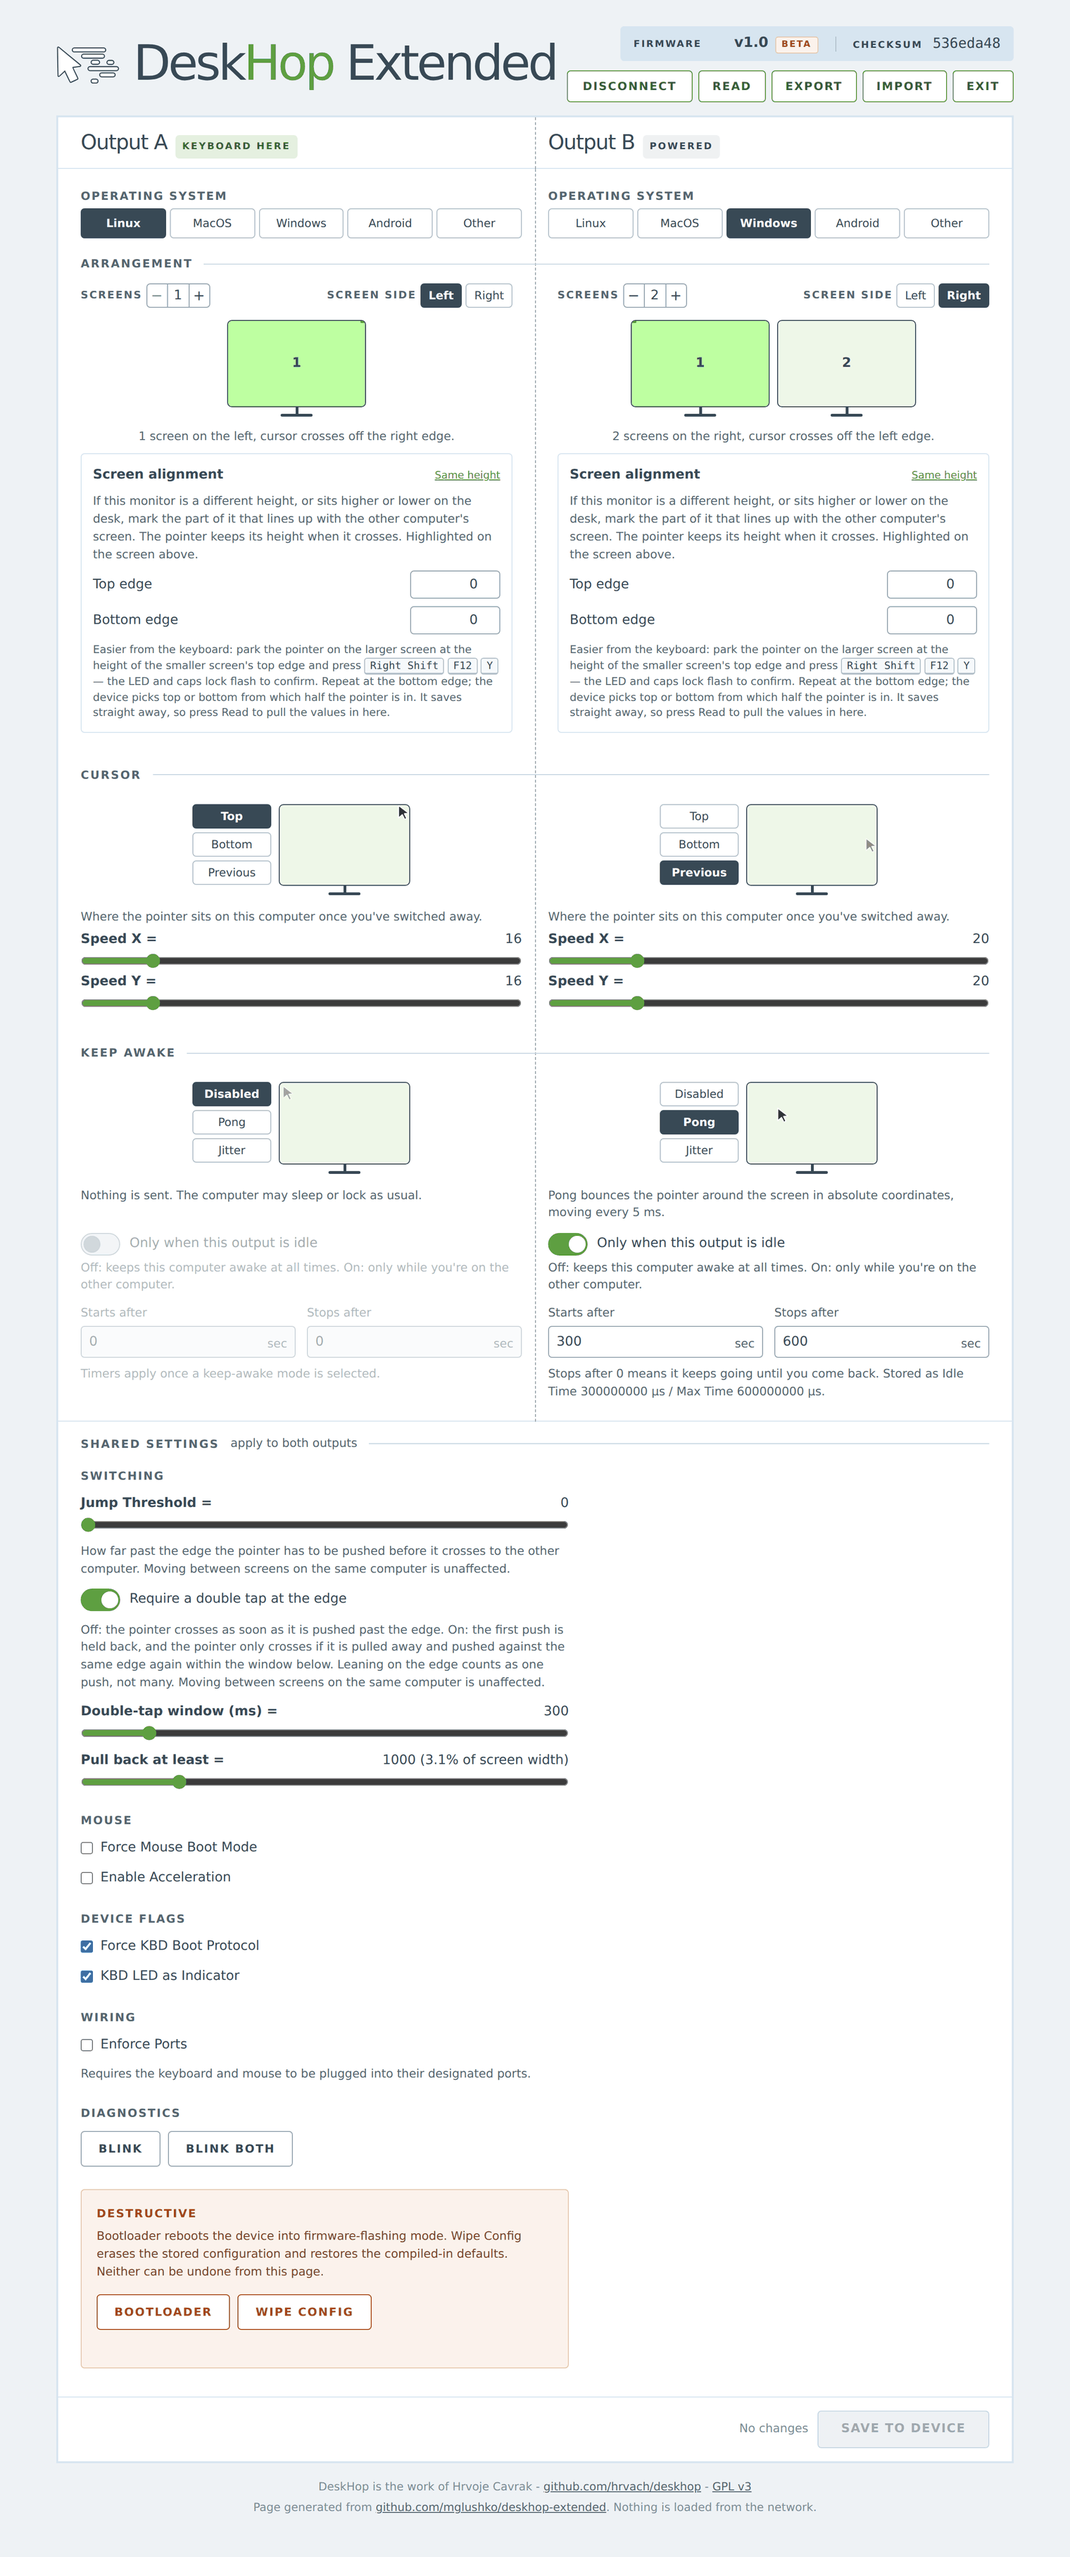
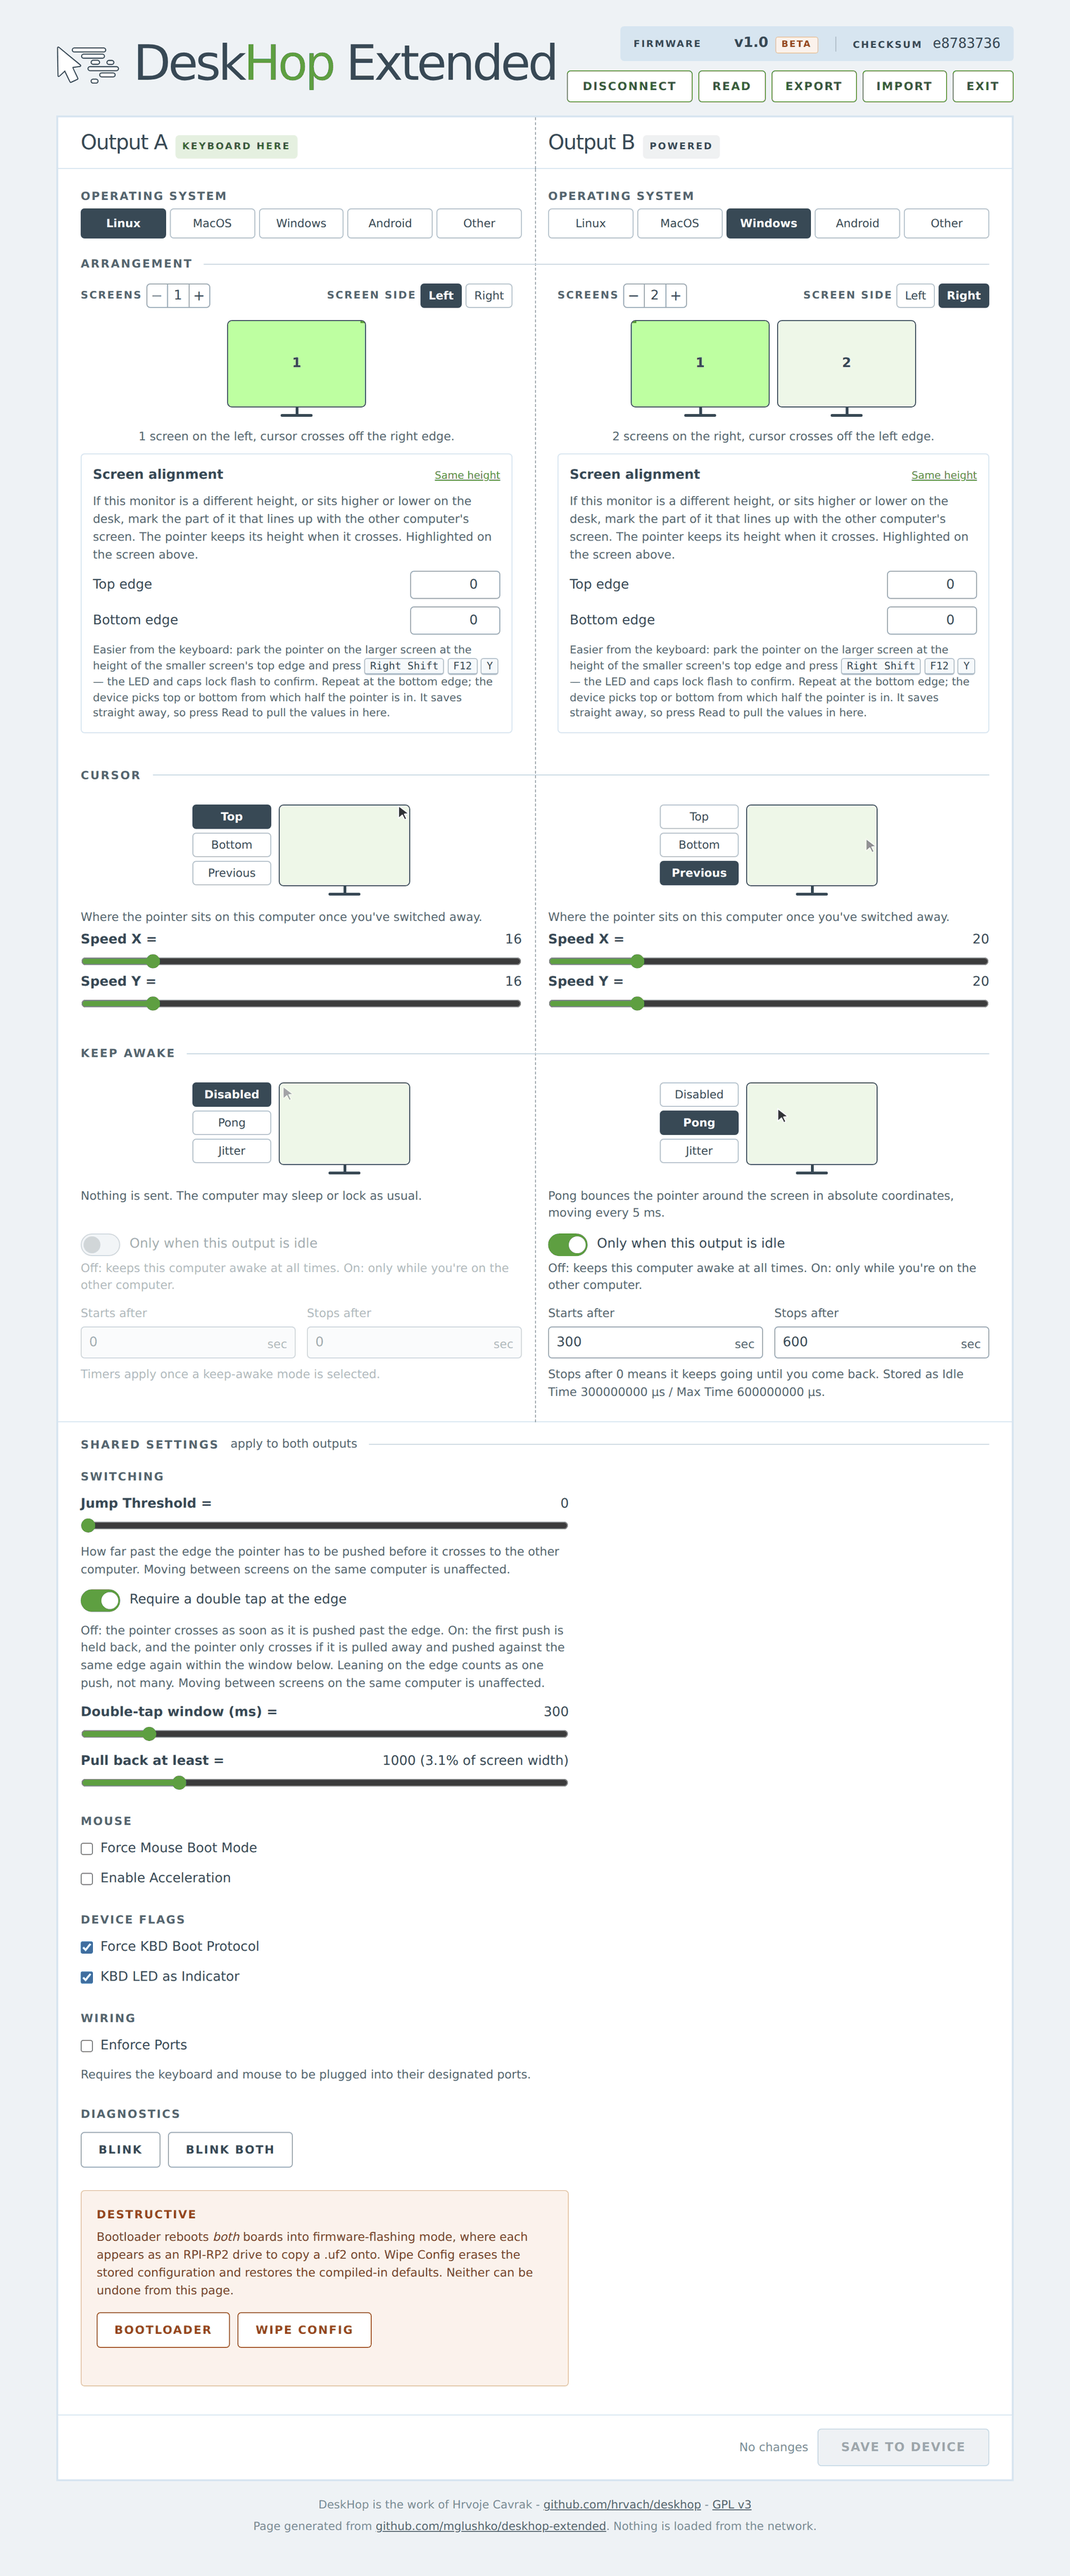
Make the Bootloader button work
It sent nothing at all. enterBootloaderHandler passed `true` where
sendReport expects a payload array, and makeReport spreads that payload
- `[...true]` throws TypeError before a single report goes out. The
firmware was never involved: handle_fw_upgrade_msg ignores the payload
entirely and goes straight to reset_usb_boot.

The handler is byte-identical in upstream, so Bootloader is dead there
too. Worth reporting.

It failed invisibly, which is why it shipped: menuClick calls an async
handler without catching, so the rejection became an unhandled promise
that surfaced nowhere unless devtools happened to be open, and the
button simply looked inert. menuClick now reports a throwing handler in
the settings panel, so the next one of these is visible rather than
silent.

The Destructive card said Bootloader reboots "the device"; sendBoth
proxies the message across the link first, so both boards reboot and
both come up as RPI-RP2. Says so now.

misc/test-config-backup.py drives the shipped page with a recording
stub in place of a paired device, and asserts two reports go out - the
proxied one wrapping the message, then the local one - plus that a
throwing handler gets reported. Pointed at the previously shipped
config.htm those same assertions fail with 'TypeError: payload is not
iterable' and zero reports sent, so they do detect the bug.

Untested on hardware - I cannot confirm both boards actually enumerate
as RPI-RP2.

diff --git a/webconfig/config.htm b/webconfig/config.htm
@@ -1,1 +1,1 @@
[2 lines of base64/hex data omitted]

diff --git a/webconfig/config-unpacked.htm b/webconfig/config-unpacked.htm
@@ -843,9 +843,10 @@ input[type=range][disabled] { accent-color: var(--grey); cursor: default; }
 
         <div class="box menu-buttons">
           <span class="lbl">Destructive</span>
-          <p>Bootloader reboots the device into firmware-flashing mode. Wipe Config erases the
-            stored configuration and restores the compiled-in defaults. Neither can be undone
-            from this page.</p>
+          <p>Bootloader reboots <em>both</em> boards into firmware-flashing mode, where each
+            appears as an RPI-RP2 drive to copy a .uf2 onto. Wipe Config erases the stored
+            configuration and restores the compiled-in defaults. Neither can be undone from
+            this page.</p>
           <div class="row-btn">
             <button class="btn btn-plain btn-danger online" data-handler="enterBootloaderHandler">Bootloader</button>
             <button class="btn btn-plain btn-danger online" data-handler="wipeConfigHandler">Wipe Config</button>
@@ -885,6 +886,9 @@ const packetType = {
   syncBordersMsg: 8, flashLedMsg: 9, wipeConfigMsg: 10, readConfigMsg: 16, writeConfigMsg: 17, saveConfigMsg: 18,
   rebootMsg: 19, getValMsg: 20, setValMsg: 21, getValAllMsg: 22, proxyPacketMsg: 23
 };
+
+/* Matches ENABLE in src/include/constants.h */
+const ENABLE = 1;
 
 /* Matches MAX_SCREEN_COORD in src/include/screen.h */
 const MAX_SCREEN_COORD = 32767;
@@ -1092,7 +1096,11 @@ async function blinkBothHandler() {
 }
 
 async function enterBootloaderHandler() {
-  await sendReport(packetType.firmwareUpgradeMsg, true, true);
+  /* The payload has to be an array - makeReport spreads it, so anything else throws
+     before a report is sent. The firmware reads no payload here at all
+     (handle_fw_upgrade_msg goes straight to reset_usb_boot); ENABLE mirrors what the
+     keyboard shortcut sends in handlers.c. */
+  await sendReport(packetType.firmwareUpgradeMsg, [ENABLE], true);
 }
 
 async function wipeConfigHandler() {
@@ -1526,8 +1534,28 @@ function useFullEdge(output) {
 function menuClick(event) {
   const button = event.target.closest('[data-handler]');
 
-  if (button && !button.disabled)
-    window[button.dataset.handler]();
+  if (!button || button.disabled)
+    return;
+
+  /* Handlers are async, so a throw becomes an unhandled rejection that goes nowhere
+     unless devtools happen to be open - the button simply looks inert. Surface it
+     instead; that is exactly how the Bootloader button stayed broken. */
+  const label = (button.textContent || button.dataset.handler).trim();
+
+  try {
+    Promise.resolve(window[button.dataset.handler]())
+      .catch(error => reportHandlerError(label, error));
+  } catch (error) {
+    reportHandlerError(label, error);
+  }
+}
+
+function reportHandlerError(label, error) {
+  const message = (error && error.message) ? error.message : String(error);
+
+  showBackup(`${label} failed`,
+             'The page hit an error carrying that out. Details below.',
+             String((error && error.stack) ? error.stack : message), false);
 }
 
 function panelClick(event) {

diff --git a/webconfig/templates/script.js b/webconfig/templates/script.js
@@ -7,6 +7,9 @@ const packetType = {
   rebootMsg: 19, getValMsg: 20, setValMsg: 21, getValAllMsg: 22, proxyPacketMsg: 23
 };
 
+/* Matches ENABLE in src/include/constants.h */
+const ENABLE = 1;
+
 /* Matches MAX_SCREEN_COORD in src/include/screen.h */
 const MAX_SCREEN_COORD = 32767;
 
@@ -213,7 +216,11 @@ async function blinkBothHandler() {
 }
 
 async function enterBootloaderHandler() {
-  await sendReport(packetType.firmwareUpgradeMsg, true, true);
+  /* The payload has to be an array - makeReport spreads it, so anything else throws
+     before a report is sent. The firmware reads no payload here at all
+     (handle_fw_upgrade_msg goes straight to reset_usb_boot); ENABLE mirrors what the
+     keyboard shortcut sends in handlers.c. */
+  await sendReport(packetType.firmwareUpgradeMsg, [ENABLE], true);
 }
 
 async function wipeConfigHandler() {
@@ -647,8 +654,28 @@ function useFullEdge(output) {
 function menuClick(event) {
   const button = event.target.closest('[data-handler]');
 
-  if (button && !button.disabled)
-    window[button.dataset.handler]();
+  if (!button || button.disabled)
+    return;
+
+  /* Handlers are async, so a throw becomes an unhandled rejection that goes nowhere
+     unless devtools happen to be open - the button simply looks inert. Surface it
+     instead; that is exactly how the Bootloader button stayed broken. */
+  const label = (button.textContent || button.dataset.handler).trim();
+
+  try {
+    Promise.resolve(window[button.dataset.handler]())
+      .catch(error => reportHandlerError(label, error));
+  } catch (error) {
+    reportHandlerError(label, error);
+  }
+}
+
+function reportHandlerError(label, error) {
+  const message = (error && error.message) ? error.message : String(error);
+
+  showBackup(`${label} failed`,
+             'The page hit an error carrying that out. Details below.',
+             String((error && error.stack) ? error.stack : message), false);
 }
 
 function panelClick(event) {

diff --git a/webconfig/templates/main.html b/webconfig/templates/main.html
@@ -375,9 +375,10 @@
 
         <div class="box menu-buttons">
           <span class="lbl">Destructive</span>
-          <p>Bootloader reboots the device into firmware-flashing mode. Wipe Config erases the
-            stored configuration and restores the compiled-in defaults. Neither can be undone
-            from this page.</p>
+          <p>Bootloader reboots <em>both</em> boards into firmware-flashing mode, where each
+            appears as an RPI-RP2 drive to copy a .uf2 onto. Wipe Config erases the stored
+            configuration and restores the compiled-in defaults. Neither can be undone from
+            this page.</p>
           <div class="row-btn">
             <button class="btn btn-plain btn-danger online" data-handler="enterBootloaderHandler">Bootloader</button>
             <button class="btn btn-plain btn-danger online" data-handler="wipeConfigHandler">Wipe Config</button>

diff --git a/misc/test-config-backup.py b/misc/test-config-backup.py
@@ -70,6 +70,41 @@ with sync_playwright() as p:
     check("malformed input rejected cleanly",
           "not valid JSON" in page.eval_on_selector("#backup-m", "e => e.textContent"))
 
+    # ---- device buttons that send raw reports --------------------------------
+    page.evaluate("""() => {
+        window.__sent = [];
+        window.device = { opened: true,
+            sendReport: async (id, data) => { window.__sent.push([...data]); } };
+    }""")
+    boot = page.evaluate("""async () => {
+        window.__sent = [];
+        try { await enterBootloaderHandler(); return {ok: true, sent: window.__sent}; }
+        catch (e) { return {ok: false, err: e.constructor.name + ': ' + e.message}; }
+    }""")
+    check("Bootloader sends without throwing", boot["ok"], boot.get("err"))
+    if boot["ok"]:
+        sent = boot["sent"]
+        check("Bootloader reaches both boards", len(sent) == 2, len(sent))
+        # proxied first, then local; byte 2 is the message type
+        check("proxied packet wraps the firmware-upgrade message",
+              len(sent) == 2 and sent[0][2] == 23 and sent[0][3] == 4, sent[0][:5] if sent else None)
+        check("local packet is the firmware-upgrade message",
+              len(sent) == 2 and sent[1][2] == 4, sent[1][:5] if len(sent) > 1 else None)
+
+    # A handler that throws must surface rather than leaving the button looking inert.
+    page.evaluate("""() => {
+        window.__throwingHandler = async () => { throw new Error('boom'); };
+        const b = document.createElement('button');
+        b.dataset.handler = '__throwingHandler';
+        b.textContent = 'Explode';
+        document.getElementById('menu-buttons').appendChild(b);
+        b.click();
+    }""")
+    page.wait_for_function("() => !el('backup').hidden && /Explode/.test(el('backup-t').textContent)",
+                           timeout=5000)
+    check("a throwing handler is reported instead of failing silently",
+          "boom" in page.eval_on_selector("#backup-text", "e => e.value"))
+
     b.close()
 
 check("no page errors", not errs, errs)
